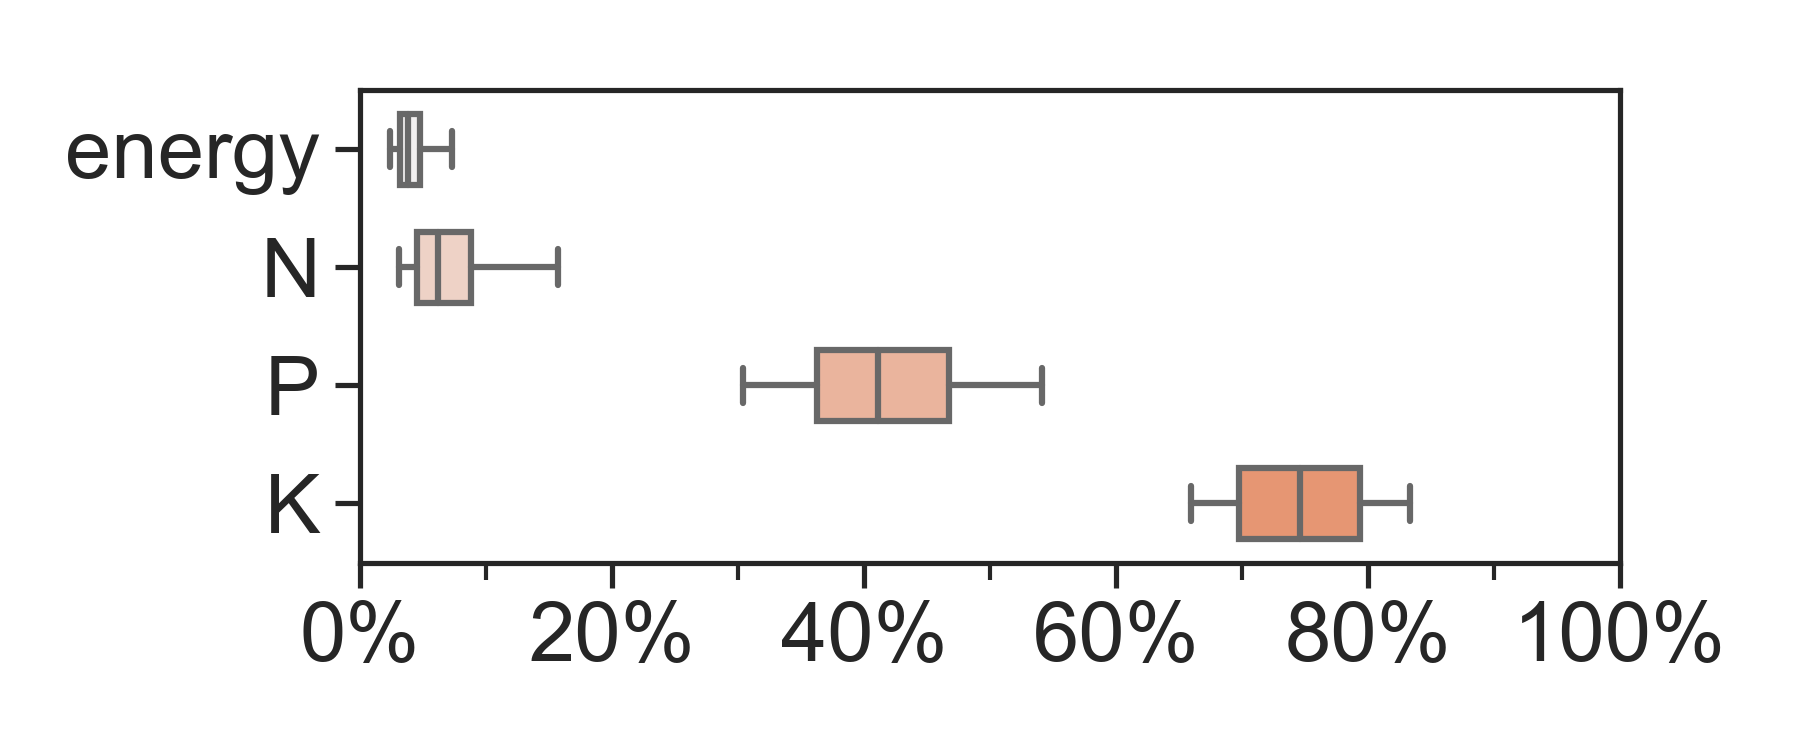
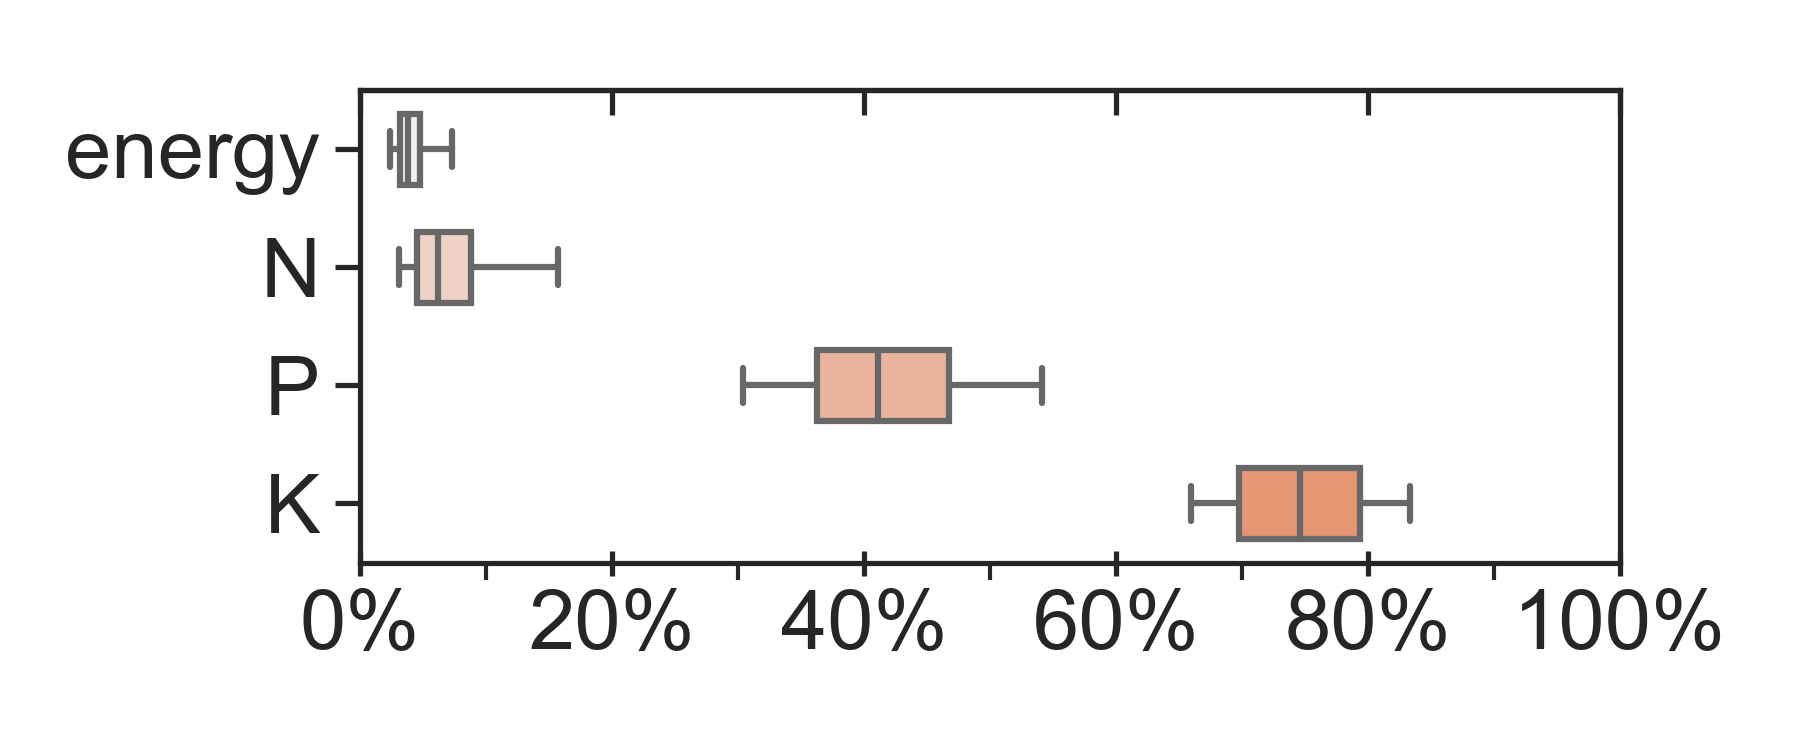
updated figures for manuscript

diff --git a/exposan/bsm1/analyses.py b/exposan/bsm1/analyses.py
@@ -104,20 +104,23 @@ def plot_SE_timeseries(seed, N, data=None):
                 color='grey', linestyle='-', alpha=0.05)
         lbl, = ax.plot(df.t, bl_data.loc[:, var],
                      color='orange', linestyle='-', linewidth=2.5,
-                     # label='Base')
-                     label='QSDsan')
+                      label='Base')
         l5, l95, = ax.plot(df.t, df.loc[:,['5th percentile', '95th percentile']],
                       color='blue', linestyle='--', 
                       label='5th, 95th')
         l50, = ax.plot(df.t, df.loc[:,'50th percentile'],
                       color='black', linestyle='-.',
                       label='50th')
+        ax.tick_params(axis='both', direction='inout')
+        ax2 = ax.secondary_yaxis('right')
+        ax2.tick_params(axis='y', direction='in')
+        ax2.yaxis.set_major_formatter(plt.NullFormatter())
         # lbm,  = ax.plot(df.t, bm_data.loc[:, var],
         #               color='black', linestyle='-.', label='Matlab/Simulink')
         # ax.yaxis.set_major_locator(plt.MaxNLocator(5))
-        # if var == 'X_ND': ax.yaxis.set_major_formatter(plt.FormatStrFormatter('%.3f'))
         if ir == 0 and ic == 0: ax.legend(handles=[l5, l50, lbl])
         # if ir == 0 and ic == 0: ax.legend(handles=[lbl, lbm])
+    plt.subplots_adjust(hspace=0.1)
     fig.savefig(os.path.join(figures_path, 'effluent_yt.png'), dpi=300)
     return fig, ax
 
@@ -266,10 +269,14 @@ def plot_SE_yt_w_diff_init(seed, N, data=None):
         df = data[var]
         ax = axes[ir, ic]
         ax.plot(df.t, df.iloc[:,:N], 
-                color='grey', linestyle='-', alpha=0.3)
+                color='grey', linestyle='-', alpha=0.25)
         lbm, = ax.plot(df.t, bm_data.loc[:, var],
                        color='red', linestyle='-.', label='MATLAB/Simulink')
         ax.yaxis.set_major_locator(plt.MaxNLocator(5))
+        ax.tick_params(axis='both', direction='inout')
+        ax2 = ax.secondary_yaxis('right')
+        ax2.tick_params(axis='y', direction='in')
+        ax2.yaxis.set_major_formatter(plt.NullFormatter())
         if var == 'X_ND': ax.yaxis.set_major_formatter(plt.FormatStrFormatter('%.3f'))
         if ir == 0 and ic == 0: ax.legend(handles=[lbm])
     plt.subplots_adjust(wspace=0.21, hspace=0.1)
@@ -289,5 +296,5 @@ if __name__ == '__main__':
     # run_sensitivity(157)
     # dv_analysis()
     # plot_SE_timeseries(seed=157, N=1000)
-    # plot_SE_yt_w_diff_init(seed=708, N=100)
-    UA_w_diff_inits()
+    plot_SE_yt_w_diff_init(seed=708, N=100)
+    # UA_w_diff_inits()

diff --git a/exposan/bwaise/analyses.py b/exposan/bwaise/analyses.py
@@ -84,6 +84,11 @@ def plot_box(model, ID, color, metrics, ax_dct, kind='horizontal',
         ax.set(xlabel='', xlim=(0, 1), xticks=ticks)
         ax.set_yticklabels([i.name.lstrip('Total ') for i in metrics], fontsize=20)
         ax.set_xticklabels([f'{i:.0%}' for i in ticks], fontsize=20)
+        
+        ax.tick_params(axis='x', direction='inout')
+        ax2 = ax.secondary_xaxis('top')
+        ax2.tick_params(axis='x', direction='in')
+        ax2.xaxis.set_major_formatter(plt.NullFormatter())
     else:
         fig, ax = s.plot_uncertainties(model, x_axis=metrics, kind='box',
                                        center_kws={'color': color, 'width': 0.6,
@@ -95,6 +100,11 @@ def plot_box(model, ID, color, metrics, ax_dct, kind='horizontal',
             label.set_rotation(30)
         ax.set(ylabel='', ylim=(0, 1), yticks=ticks)
         ax.set_yticklabels([f'{i:.0%}' for i in ticks], fontsize=20)
+        
+        ax.tick_params(axis='x', direction='inout')
+        ax2 = ax.secondary_xaxis('top')
+        ax2.tick_params(axis='x', direction='in')
+        ax2.xaxis.set_major_formatter(plt.NullFormatter())
  
     ax.xaxis.set_minor_locator(AutoMinorLocator(2))
     fig.subplots_adjust(left=0.2, bottom=0.25)
